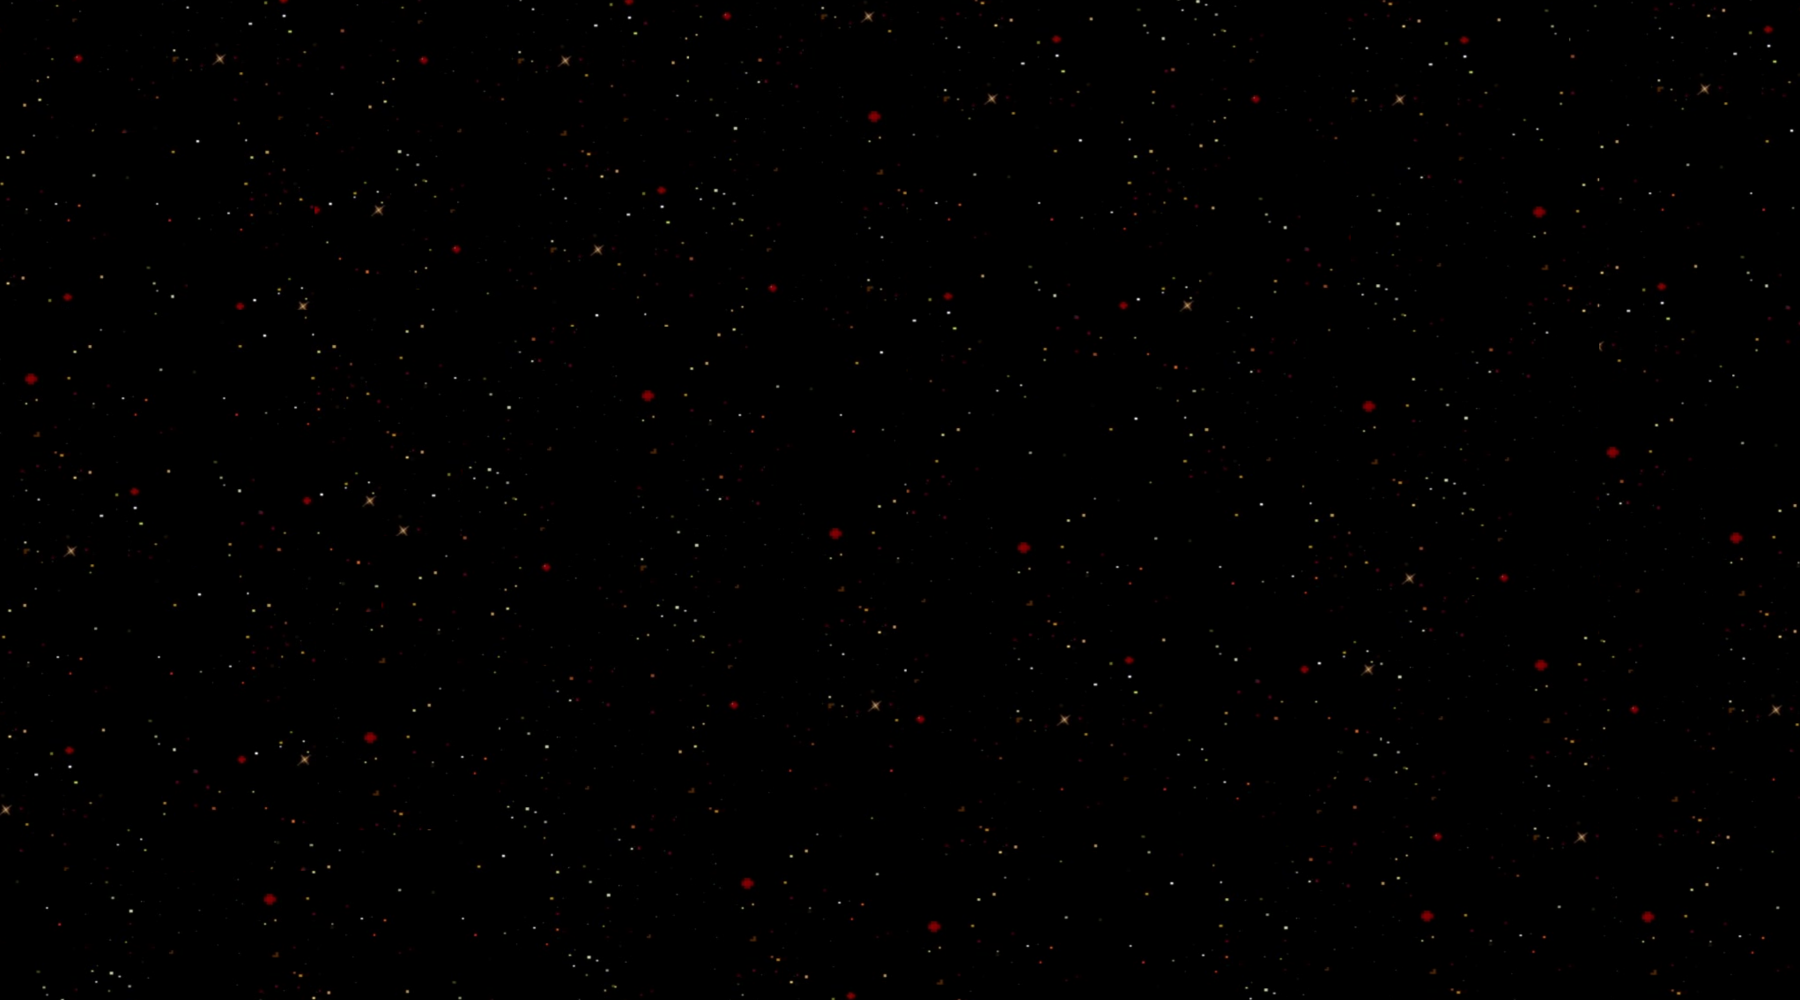
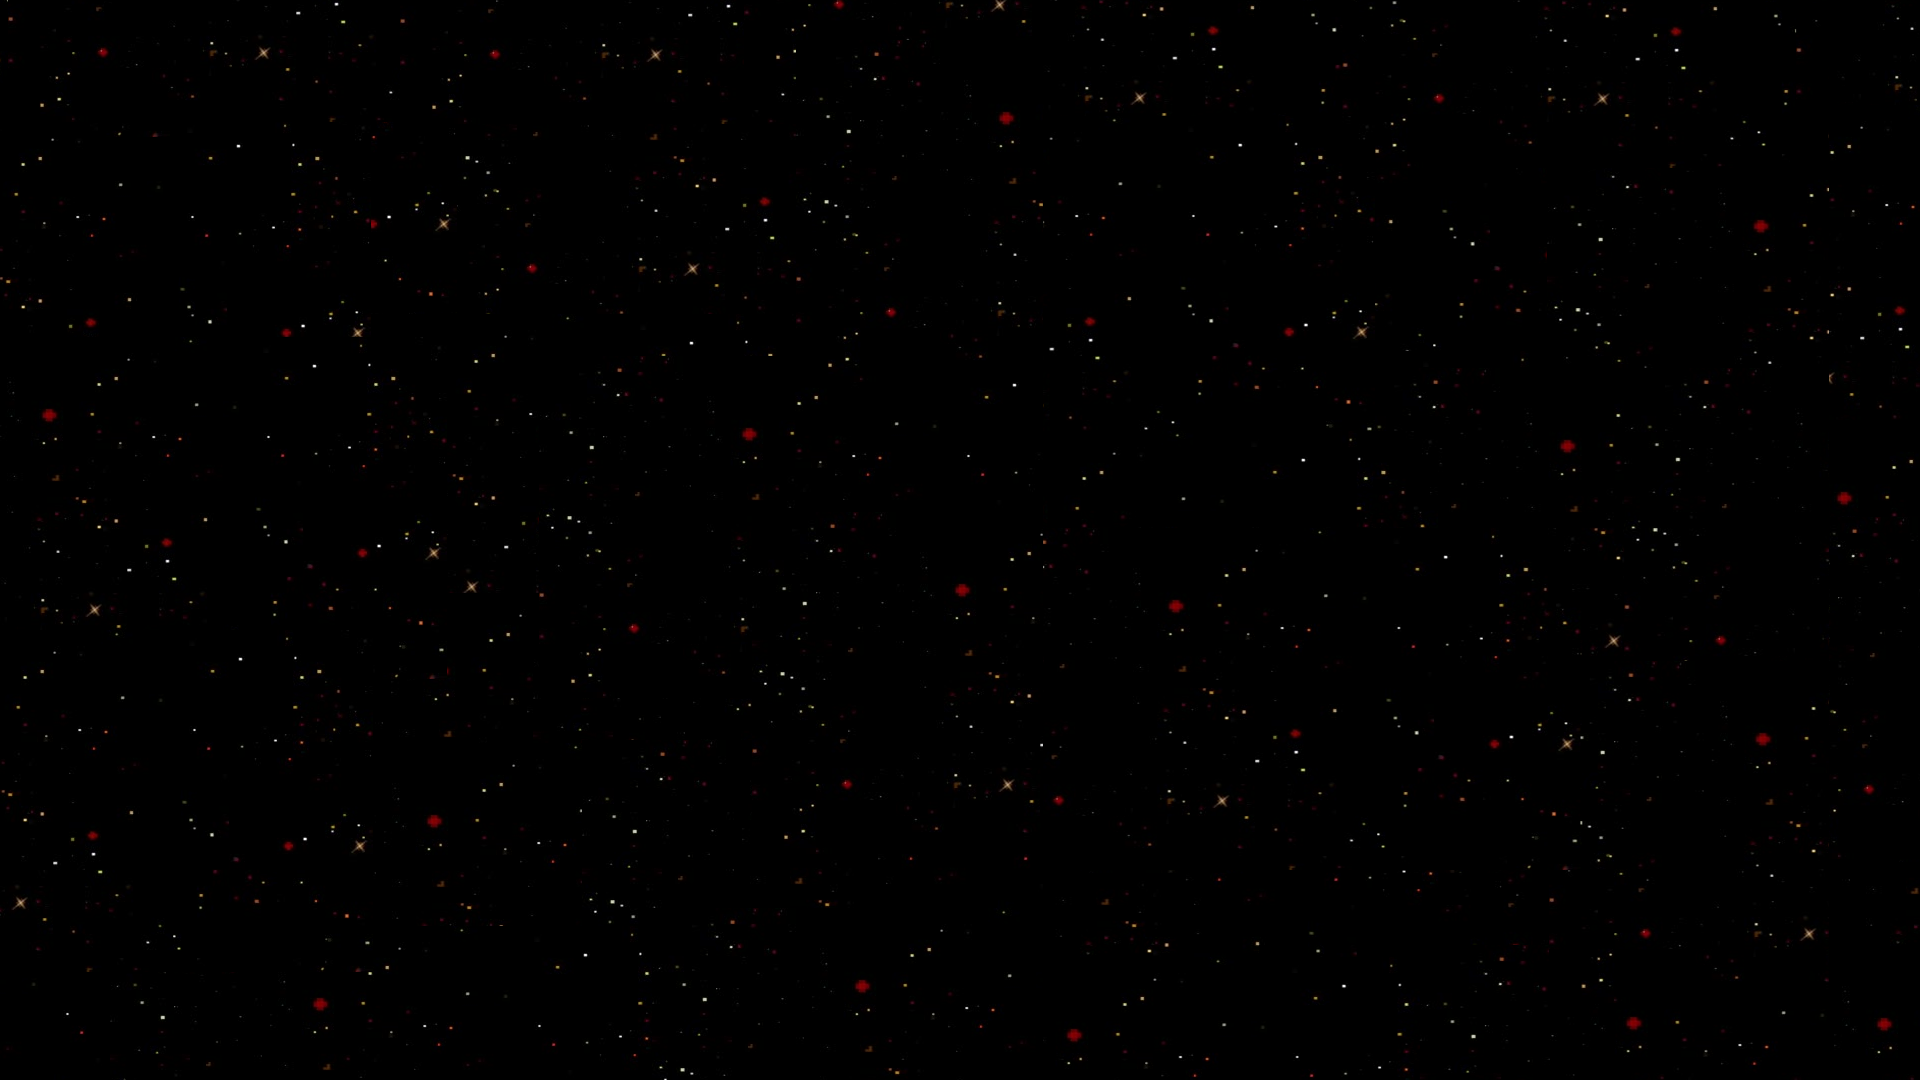
[client_server][Fix] - parrallax on all menu

diff --git a/client/src/systems/MenuScreenSystem.cpp b/client/src/systems/MenuScreenSystem.cpp
@@ -7,15 +7,23 @@
 
 #include "MenuScreenSystem.hpp"
 
-void Engine::MenuScreenSystem::createSprites(Entity parallax, std::array<Entity, 3> buttons)
+void Engine::MenuScreenSystem::createSprites(std::array<Entity, 2> parallax, std::array<Entity, 3> buttons)
 {
-    _spriteSystem.create(parallax);
-    _positionSystem.create(parallax);
-    _positionSystem.setPosition(parallax, -1800, 0);
-    _spriteSystem.initSprite(parallax, "../client/assets/background.png", false);
-    _velocitySystem.create(parallax);
-    _velocitySystem.setVelocity(parallax, 5, 5);
-    _parallaxSystem.setBackgroundEntity(parallax);
+    _spriteSystem.create(parallax[0]);
+    _positionSystem.create(parallax[0]);
+    _positionSystem.setPosition(parallax[0], 0, 0);
+    _spriteSystem.initSprite(parallax[0], "../client/assets/parallax.png", false);
+    _velocitySystem.create(parallax[0]);
+    _velocitySystem.setVelocity(parallax[0], 3, 3);
+    _parallaxSystem.setBackgroundEntity(parallax[0]);
+
+    _spriteSystem.create(parallax[1]);
+    _positionSystem.create(parallax[1]);
+    _positionSystem.setPosition(parallax[1], 1920, 0);
+    _spriteSystem.initSprite(parallax[1], "../client/assets/parallax.png", false);
+    _velocitySystem.create(parallax[1]);
+    _velocitySystem.setVelocity(parallax[1], 3, 3);
+    _parallaxSystem.setBackgroundEntity(parallax[1]);
 
     _spriteSystem.create(buttons[0]);
     _positionSystem.create(buttons[0]);
@@ -35,7 +43,8 @@ void Engine::MenuScreenSystem::createSprites(Entity parallax, std::array<Entity,
     _spriteSystem.initSprite(buttons[2], "../client/assets/quit.png", false);
     _spriteSystem.setScale(buttons[2], 2, 2);
 
-    _menuScreenEntities.push_back(parallax);
+    _menuScreenEntities.push_back(parallax[0]);
+    _menuScreenEntities.push_back(parallax[1]);
     _menuScreenEntities.push_back(buttons[0]);
     _menuScreenEntities.push_back(buttons[1]);
     _menuScreenEntities.push_back(buttons[2]);
@@ -59,6 +68,7 @@ void Engine::MenuScreenSystem::destroySprites(EntityManager &entityManager)
 void Engine::MenuScreenSystem::update(EntityManager &entityManager, SceneManager &sceneManager)
 {
     _parallaxSystem.update(_positionSystem.getComponent(_menuScreenEntities[0]), _velocitySystem.getComponent(_menuScreenEntities[0]));
+    _parallaxSystem.update(_positionSystem.getComponent(_menuScreenEntities[1]), _velocitySystem.getComponent(_menuScreenEntities[1]));
         if (sf::Keyboard::isKeyPressed(sf::Keyboard::Y)) {
             if (_choice == choice::CREATE) {
                 destroySprites(entityManager);
@@ -78,9 +88,9 @@ void Engine::MenuScreenSystem::update(EntityManager &entityManager, SceneManager
         _choice == 0 ? _choice = 2 : _choice--;
         _isPressed = true;
     }
-    _choice == choice::CREATE ? _spriteSystem.changeTexture(_menuScreenEntities[1], "../client/assets/createPressed.png") : _spriteSystem.changeTexture(_menuScreenEntities[1], "../client/assets/create.png");
-    _choice == choice::JOIN ? _spriteSystem.changeTexture(_menuScreenEntities[2], "../client/assets/joinPressed.png") : _spriteSystem.changeTexture(_menuScreenEntities[2], "../client/assets/join.png");
-    _choice == choice::QUIT ? _spriteSystem.changeTexture(_menuScreenEntities[3], "../client/assets/quitPressed.png") : _spriteSystem.changeTexture(_menuScreenEntities[3], "../client/assets/quit.png");
+    _choice == choice::CREATE ? _spriteSystem.changeTexture(_menuScreenEntities[2], "../client/assets/createPressed.png") : _spriteSystem.changeTexture(_menuScreenEntities[2], "../client/assets/create.png");
+    _choice == choice::JOIN ? _spriteSystem.changeTexture(_menuScreenEntities[3], "../client/assets/joinPressed.png") : _spriteSystem.changeTexture(_menuScreenEntities[3], "../client/assets/join.png");
+    _choice == choice::QUIT ? _spriteSystem.changeTexture(_menuScreenEntities[4], "../client/assets/quitPressed.png") : _spriteSystem.changeTexture(_menuScreenEntities[4], "../client/assets/quit.png");
     if (!sf::Keyboard::isKeyPressed(sf::Keyboard::Up) && !sf::Keyboard::isKeyPressed(sf::Keyboard::Down))
         _isPressed = false;
 }

diff --git a/client/src/systems/LobbyScreenSystem.cpp b/client/src/systems/LobbyScreenSystem.cpp
@@ -7,21 +7,23 @@
 
 #include "LobbyScreenSystem.hpp"
 
-void Engine::LobbyScreenSystem::createSprites(Entity parallax, std::array<Entity, 3> buttons, Entity text)
+void Engine::LobbyScreenSystem::createSprites(std::array<Entity, 2> parallax, std::array<Entity, 3> buttons, Entity text)
 {
-    // _spriteSystem.create(parallax);
-    // _positionSystem.create(parallax);
-    // _positionSystem.setPosition(parallax, -1800, 0);
-    // _spriteSystem.initSprite(parallax, "../client/assets/background.png", false);
-    // _velocitySystem.create(parallax);
-    // _velocitySystem.setVelocity(parallax, 5, 5);
-    // _parallaxSystem.setBackgroundEntity(parallax);
+    _spriteSystem.create(parallax[0]);
+    _positionSystem.create(parallax[0]);
+    _positionSystem.setPosition(parallax[0], 0, 0);
+    _spriteSystem.initSprite(parallax[0], "../client/assets/parallax.png", false);
+    _velocitySystem.create(parallax[0]);
+    _velocitySystem.setVelocity(parallax[0], 3, 3);
+    _parallaxSystem.setBackgroundEntity(parallax[0]);
 
-    _spriteSystem.create(buttons[0]);
-    _positionSystem.create(buttons[0]);
-    _positionSystem.setPosition(buttons[0], 700, 200);
-    _spriteSystem.initSprite(buttons[0], "../client/assets/sprite.png", false);
-    _spriteSystem.setScale(buttons[0], 2, 2);
+    _spriteSystem.create(parallax[1]);
+    _positionSystem.create(parallax[1]);
+    _positionSystem.setPosition(parallax[1], 1920, 0);
+    _spriteSystem.initSprite(parallax[1], "../client/assets/parallax.png", false);
+    _velocitySystem.create(parallax[1]);
+    _velocitySystem.setVelocity(parallax[1], 3, 3);
+    _parallaxSystem.setBackgroundEntity(parallax[1]);
 
     // _spriteSystem.create(buttons[1]);
     // _positionSystem.create(buttons[1]);
@@ -40,11 +42,10 @@ void Engine::LobbyScreenSystem::createSprites(Entity parallax, std::array<Entity
     _textSystem.create(text);
     _textSystem.initText(text, "ID: " + std::to_string(_id), 100);
 
-    _lobbyScreenEntities.push_back(buttons[0]);
-    _lobbyScreenEntities.push_back(text);
+    _lobbyScreenEntities.push_back(parallax[0]);
+    _lobbyScreenEntities.push_back(parallax[1]);
     // _lobbyScreenEntities.push_back(buttons[0]);
-    // _lobbyScreenEntities.push_back(buttons[1]);
-    // _lobbyScreenEntities.push_back(buttons[2]);
+    _lobbyScreenEntities.push_back(text);
 
     _created = true;
 }
@@ -60,11 +61,16 @@ void Engine::LobbyScreenSystem::destroySprites(EntityManager &entityManager)
         entityManager.remove(_lobbyScreenEntities[i]);
     }
     //_parallaxSystem.removeParallax();
+        _parallaxSystem.removeParallax(_positionSystem, _velocitySystem, entityManager);
+        _lobbyScreenEntities.clear();
     _created = false;
 }
 
 void Engine::LobbyScreenSystem::update(EntityManager &entityManager, SceneManager &sceneManager)
 {
+    _parallaxSystem.update(_positionSystem.getComponent(_lobbyScreenEntities[0]), _velocitySystem.getComponent(_lobbyScreenEntities[0]));
+    _parallaxSystem.update(_positionSystem.getComponent(_lobbyScreenEntities[1]), _velocitySystem.getComponent(_lobbyScreenEntities[1]));
+
     // _parallaxSystem.update(_positionSystem.getComponent(_lobbyScreenEntities[0]), _velocitySystem.getComponent(_lobbyScreenEntities[0]));
     if (sf::Keyboard::isKeyPressed(sf::Keyboard::Left) && _id > 1)
         _id--;
@@ -72,8 +78,14 @@ void Engine::LobbyScreenSystem::update(EntityManager &entityManager, SceneManage
         _id++;
     if (sf::Keyboard::isKeyPressed(sf::Keyboard::Return)) {
         sceneManager.setScene(SCENE::GAME);
+        // destroySprites(entityManager);
+        return;
+    }
+    if (sf::Keyboard::isKeyPressed(sf::Keyboard::Escape)) {
+        sceneManager.setScene(SCENE::MAIN_MENU);
         destroySprites(entityManager);
+        return;
     }
 
-    // _textSystem.setText(_lobbyScreenEntities[1], "ID: " + std::to_string(_id));
+    _textSystem.setText(_lobbyScreenEntities[2], "ID: " + std::to_string(_id));
 }

diff --git a/client/src/engine/Engine.cpp b/client/src/engine/Engine.cpp
@@ -9,7 +9,7 @@
 #include <fstream>
 
 Engine::Engine::Engine(std::string const &serverIp) :
-    _window(std::make_shared<sf::RenderWindow>(sf::VideoMode(1800, 1000), "R-Type")),
+    _window(std::make_shared<sf::RenderWindow>(sf::VideoMode(1920, 1080), "R-Type")),
     _renderer(_window), _serverIp(serverIp), _tcpClient(serverIp, 7172)
 {
 }
@@ -30,7 +30,7 @@ void Engine::Engine::run()
     createNewGame_t package = {CREATE_NEW_GAME, "NewGamee e"};
 
     while (_window->isOpen()) {
-        _window->clear(sf::Color::Blue);
+        _window->clear(sf::Color::Black);
         _tcpClient.receivePackage();
         while (_window->pollEvent(_event)) {
             if (_event.type == sf::Event::Closed)
@@ -69,13 +69,13 @@ void Engine::Engine::updateSystems()
     }
     if (_sceneManager.getScene() == SCENE::MAIN_MENU) {
         if (!_systems.menuScreen.isCreated()) {
-            _systems.menuScreen.createSprites(_entityManager.create(), {_entityManager.create(), _entityManager.create(), _entityManager.create()});
+            _systems.menuScreen.createSprites({_entityManager.create(), _entityManager.create() }, {_entityManager.create(), _entityManager.create(), _entityManager.create()});
         }
         _systems.menuScreen.update(_entityManager, _sceneManager);
     }
     if (_sceneManager.getScene() == SCENE::LOBBY) {
         if (!_systems.lobbyScreen.isCreated()) {
-            _systems.lobbyScreen.createSprites(_entityManager.create(), {_entityManager.create(), _entityManager.create(), _entityManager.create()}, _entityManager.create());
+            _systems.lobbyScreen.createSprites({_entityManager.create(), _entityManager.create() }, {_entityManager.create(), _entityManager.create(), _entityManager.create()}, _entityManager.create());
         }
         _systems.lobbyScreen.update(_entityManager, _sceneManager);
     }

diff --git a/client/include/systems/MenuScreenSystem.hpp b/client/include/systems/MenuScreenSystem.hpp
@@ -31,7 +31,7 @@ namespace Engine {
             _spriteSystem(spriteSystem), _velocitySystem(velocitySystem), _positionSystem(positionSystem), _parallaxSystem(parallaxSystem), _created(false), _choice(choice::CREATE), _isPressed(true) {};
             ~MenuScreenSystem() = default;
 
-            void createSprites(Entity parallax, std::array<Entity, 3> buttons);
+            void createSprites(std::array<Entity, 2> parallax, std::array<Entity, 3> buttons);
             void destroySprites(EntityManager &entityManager);
 
             bool isCreated() const {return (_created);};

diff --git a/client/include/systems/LobbyScreenSystem.hpp b/client/include/systems/LobbyScreenSystem.hpp
@@ -33,7 +33,7 @@ namespace Engine {
             _created(false), _choice(choice::CREATE), _isPressed(false), _id(1) {};
             ~LobbyScreenSystem() = default;
 
-            void createSprites(Entity parallax, std::array<Entity, 3> buttons, Entity text);
+            void createSprites(std::array<Entity, 2> parallax, std::array<Entity, 3> buttons, Entity text);
             void destroySprites(EntityManager &entityManager);
 
             bool isCreated() const {return (_created);};

diff --git a/client/main.cpp b/client/main.cpp
@@ -13,10 +13,10 @@
 
 int main(int argc, char **argv)
 {
-	if (argc != 2) {
-        std::cout << "Try : ./run_client <port>" << std::endl;
-        return 0;
-    }
+		if (argc != 2) {
+		    std::cout << "Try : ./run_client <port>" << std::endl;
+		    return 0;
+		}
 
 	Engine::Engine game(argv[1]);
 

diff --git a/client/src/systems/ParallaxSystem.cpp b/client/src/systems/ParallaxSystem.cpp
@@ -9,8 +9,8 @@
 
 void Engine::ParallaxSystem::update(Position &pos, Velocity &vel)
 {
-    if (pos.x <= -1800)
-        pos.x = 0;
+    if (pos.x <= -1920)
+        pos.x = 1920;
     pos.x -= vel.x;
 }
 
